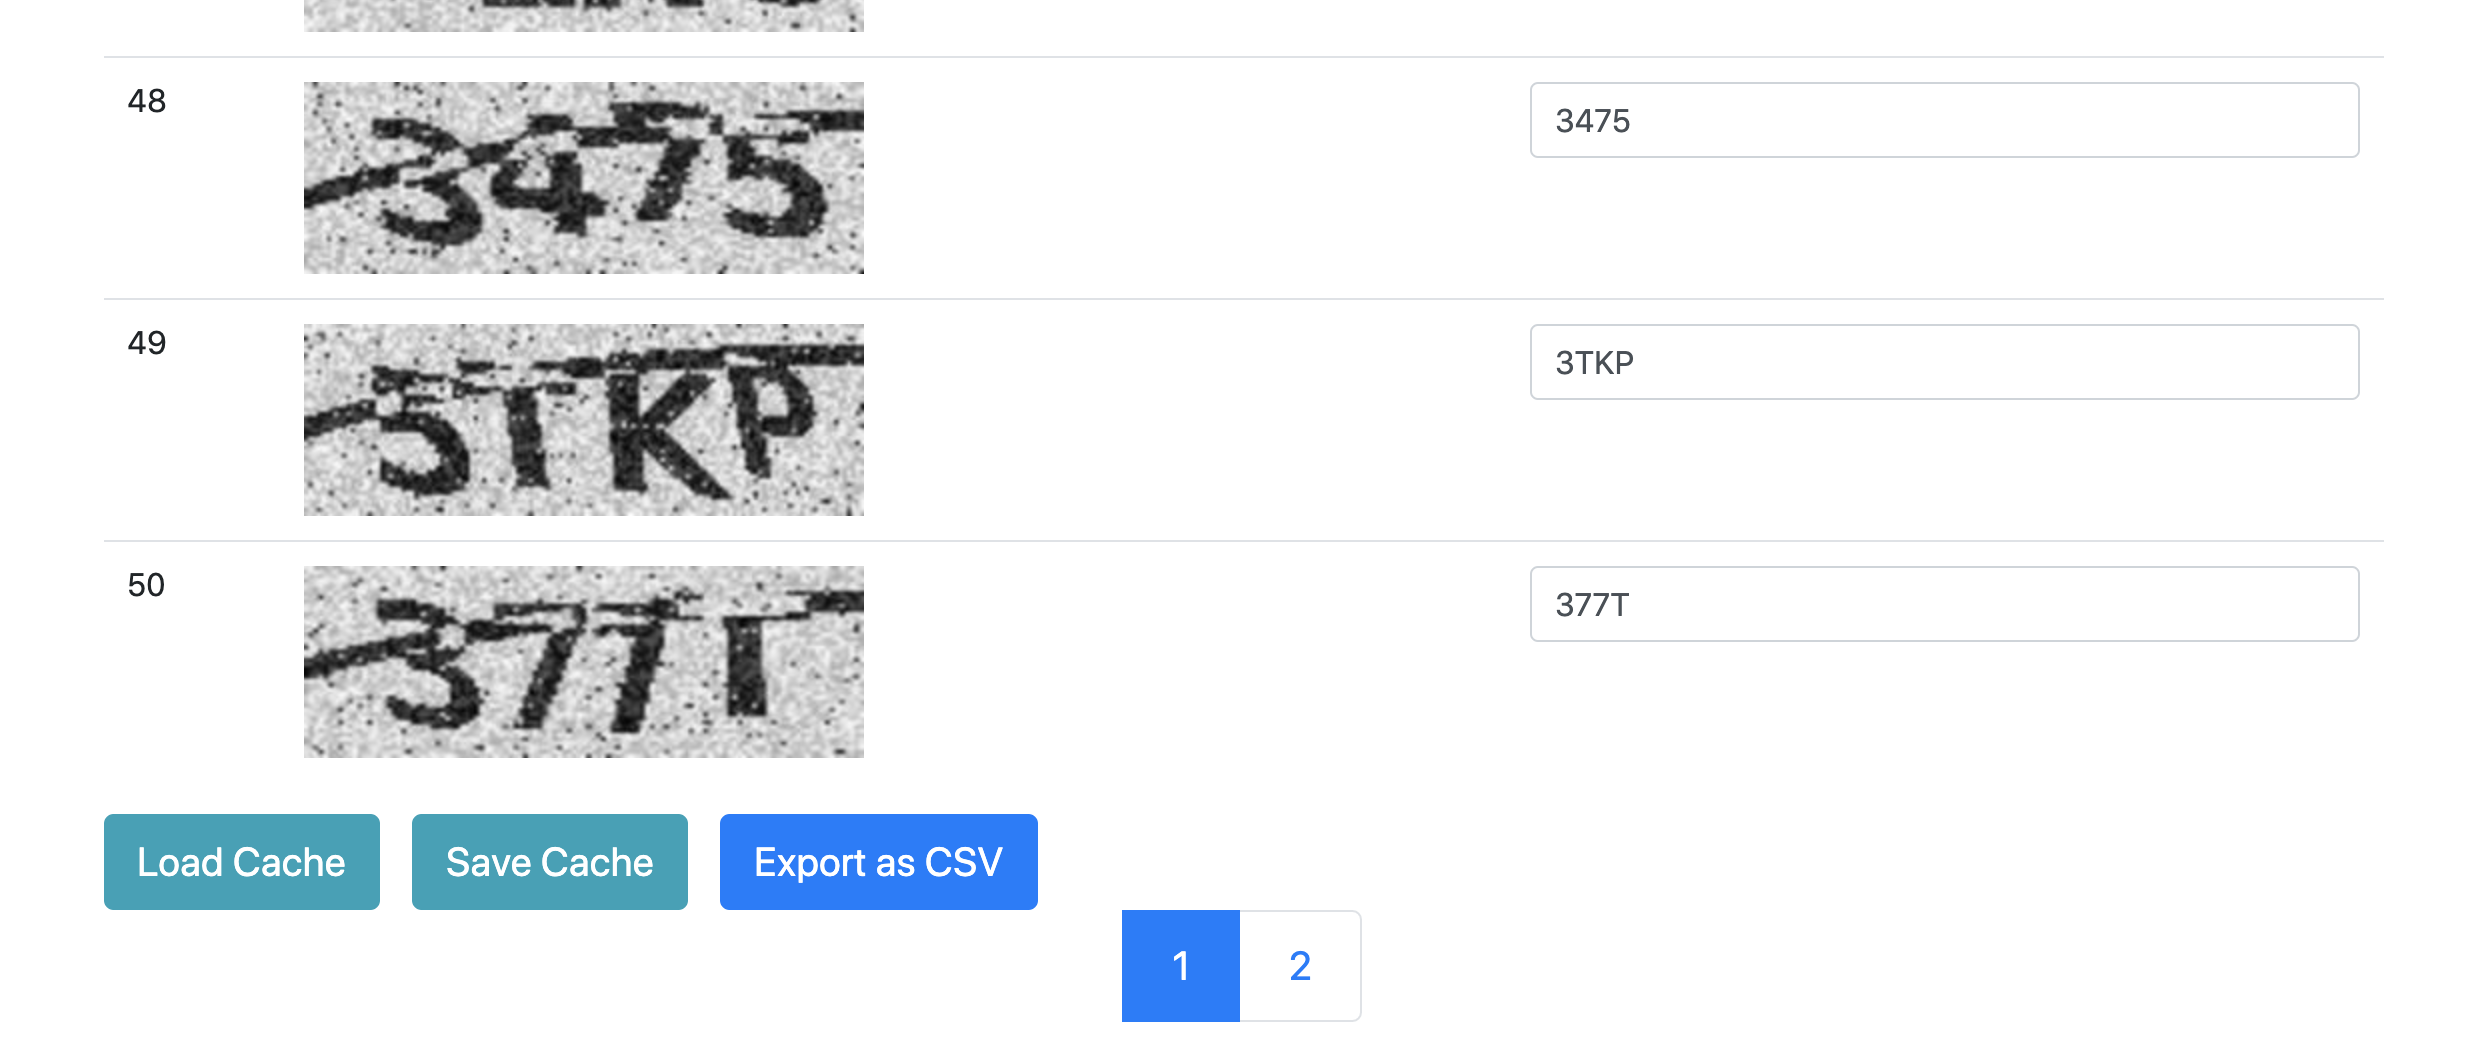
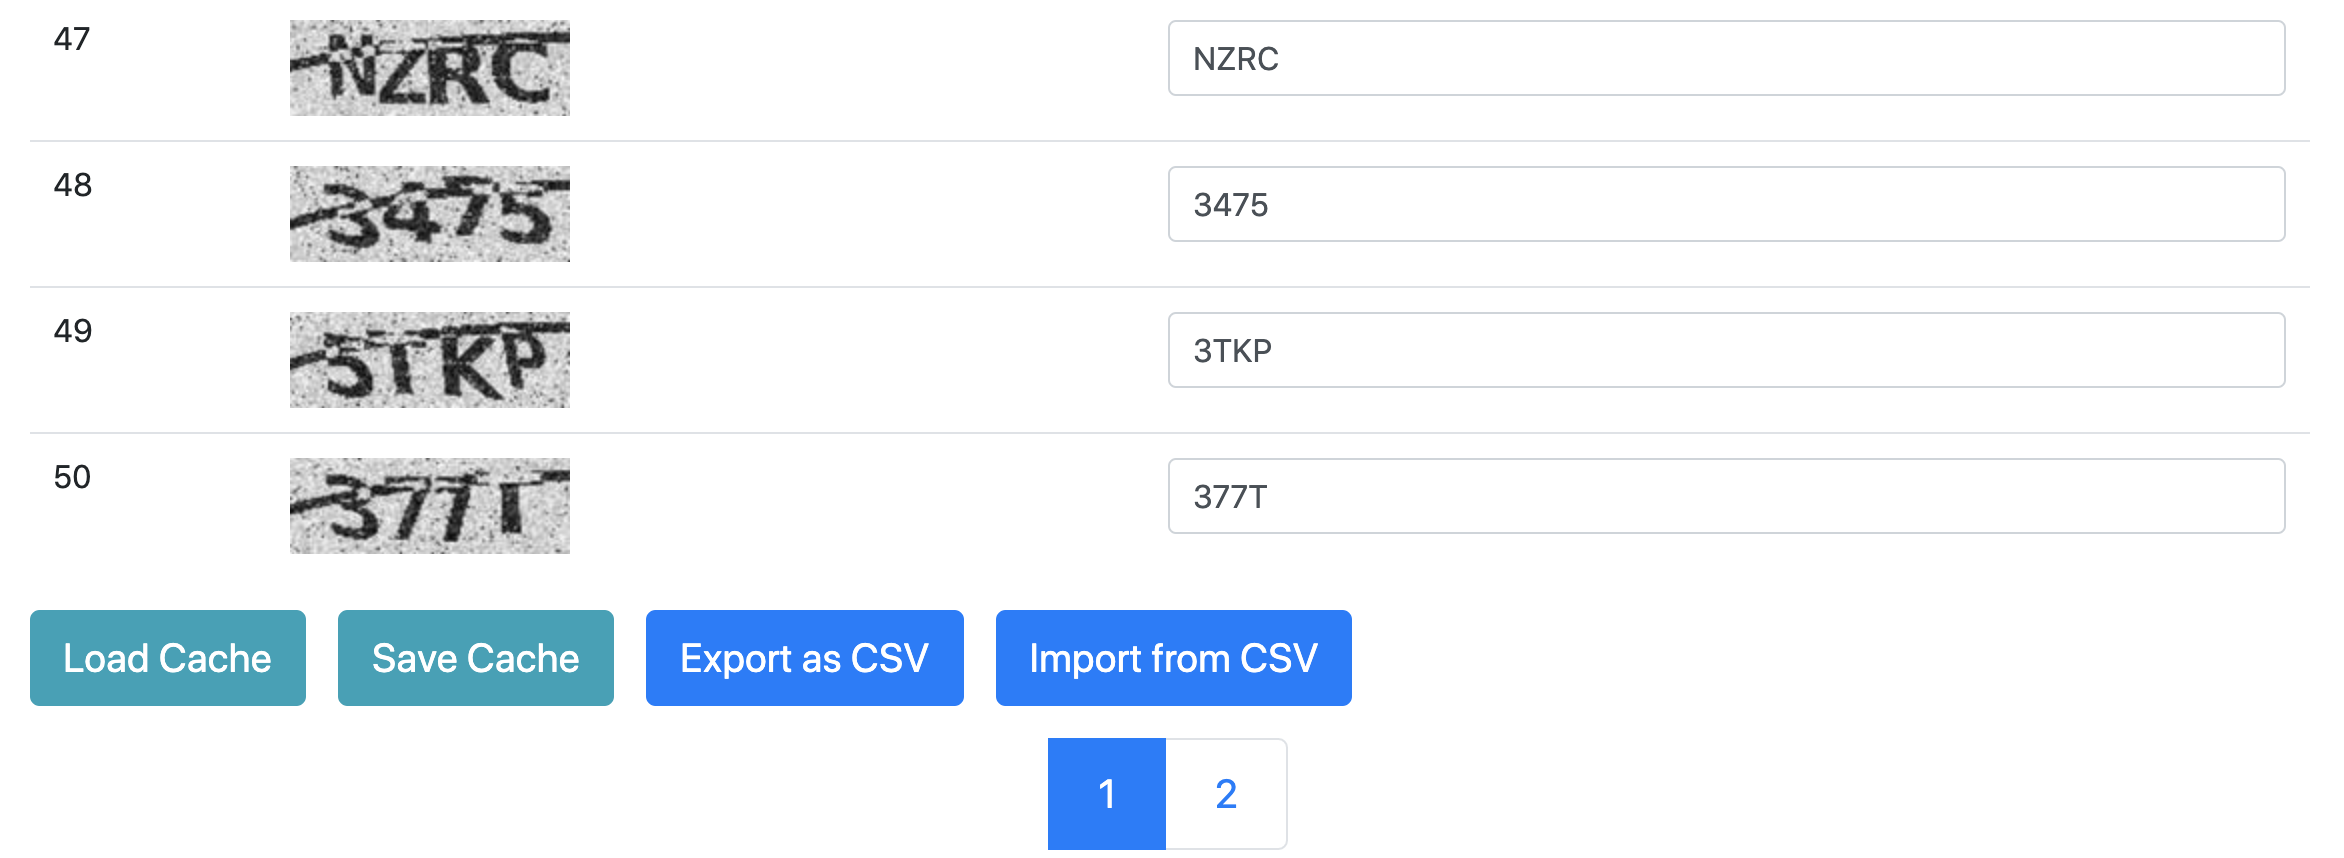
add import csv

diff --git a/label.html b/label.html
@@ -60,10 +60,12 @@
         </table>
       </div>
 
-      <div class="row">
+      <div class="row mb-3">
         <button id="loadCache" type="button" class="btn btn-lg btn-info mr-3">Load Cache</button>
         <button id="saveCache" type="button" class="btn btn-lg btn-info mr-3">Save Cache</button>
-        <button id="export" type="button" class="btn btn-lg btn-primary">Export as CSV</button>
+        <button id="export" type="button" class="btn btn-lg btn-primary mr-3">Export as CSV</button>
+        <button id="import" type="button" class="btn btn-lg btn-primary mr-3">Import from CSV</button>
+        <input type="file" id="file-input" style="display:none" accept="text/csv" />
       </div>
 
       <nav>
@@ -284,6 +286,90 @@
         $("#export").click(function() {
           saveCache(false);
           exportCSVFile();
+        });
+
+        $(".page-link").click(function() {
+          saveCache(false);
+        });
+
+        $("#import").click(function() {
+          $("#file-input").click();
+        });
+
+        $("#file-input").change(function() {
+        	// list of selected files
+        	var all_files = this.files;
+        	if(all_files.length == 0) {
+        		alert('Error : No file selected');
+        		return;
+        	}
+
+        	// first file selected by user
+        	var file = all_files[0];
+
+        	// files types allowed
+        	// we are reading text file in this example
+        	var allowed_types = ['text/csv'];
+        	if(allowed_types.indexOf(file.type) == -1) {
+        		alert('Error : Incorrect file type');
+        		return;
+        	}
+
+        	// Max 2 MB allowed
+        	var max_size_allowed = 2*1024*1024
+        	if(file.size > max_size_allowed) {
+        		alert('Error : Exceeded size 2MB');
+        		return;
+        	}
+
+        	// file validation is successful
+        	// we will now read the file
+
+          var reader = new FileReader();
+
+          // file reading started
+          reader.addEventListener('loadstart', function() {
+              console.log('File reading started');
+          });
+
+          // file reading finished successfully
+          reader.addEventListener('load', function(e) {
+              var text = e.target.result;
+
+              // contents of the file
+              var arr = text.split(/\r?\n/);
+              var cache = {}
+              for (var key in arr) {
+                if (arr[key] && arr[key] != "") {
+                  cache[parseInt(key) + 1] = arr[key];
+                }
+              }
+              window.localStorage.setItem("label", JSON.stringify(cache));
+
+              new Noty({
+                type: "success",
+                text: "Read csv successfully, please reload page.",
+                timeout: 3000,
+                theme: "relax"
+              }).show();
+              $("#file-input").val("");
+          });
+
+          // file reading failed
+          reader.addEventListener('error', function() {
+              alert('Error : Failed to read file');
+          });
+
+          // file read progress
+          reader.addEventListener('progress', function(e) {
+              if(e.lengthComputable == true) {
+              	var percent_read = Math.floor((e.loaded/e.total)*100);
+              	console.log(percent_read + '% read');
+              }
+          });
+
+          // read as text file
+          reader.readAsText(file);
         });
 
         var timeoutId;
